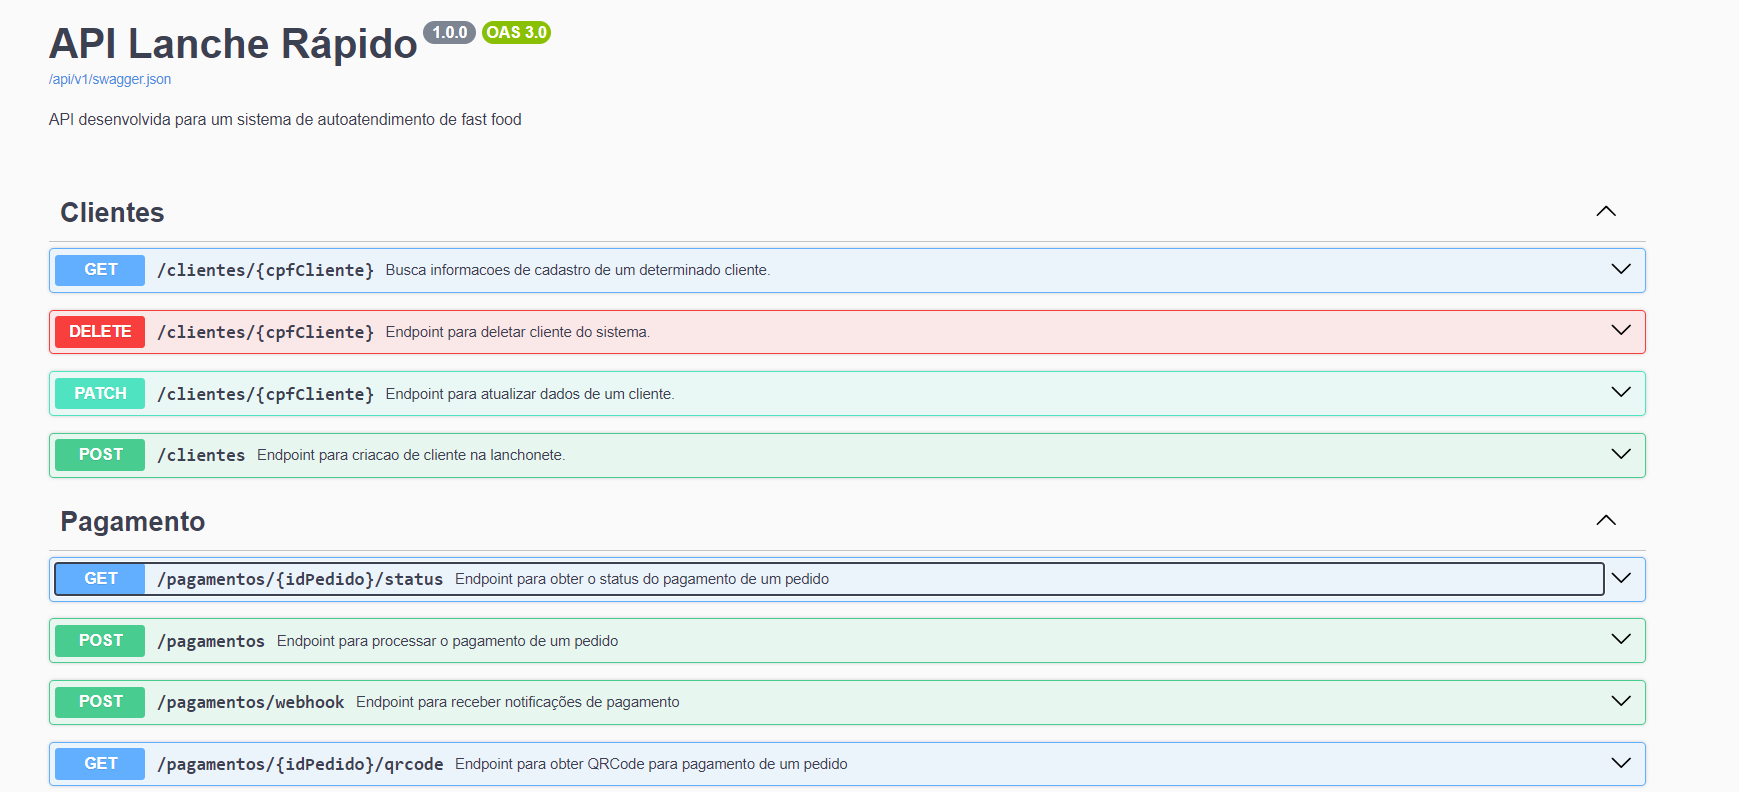
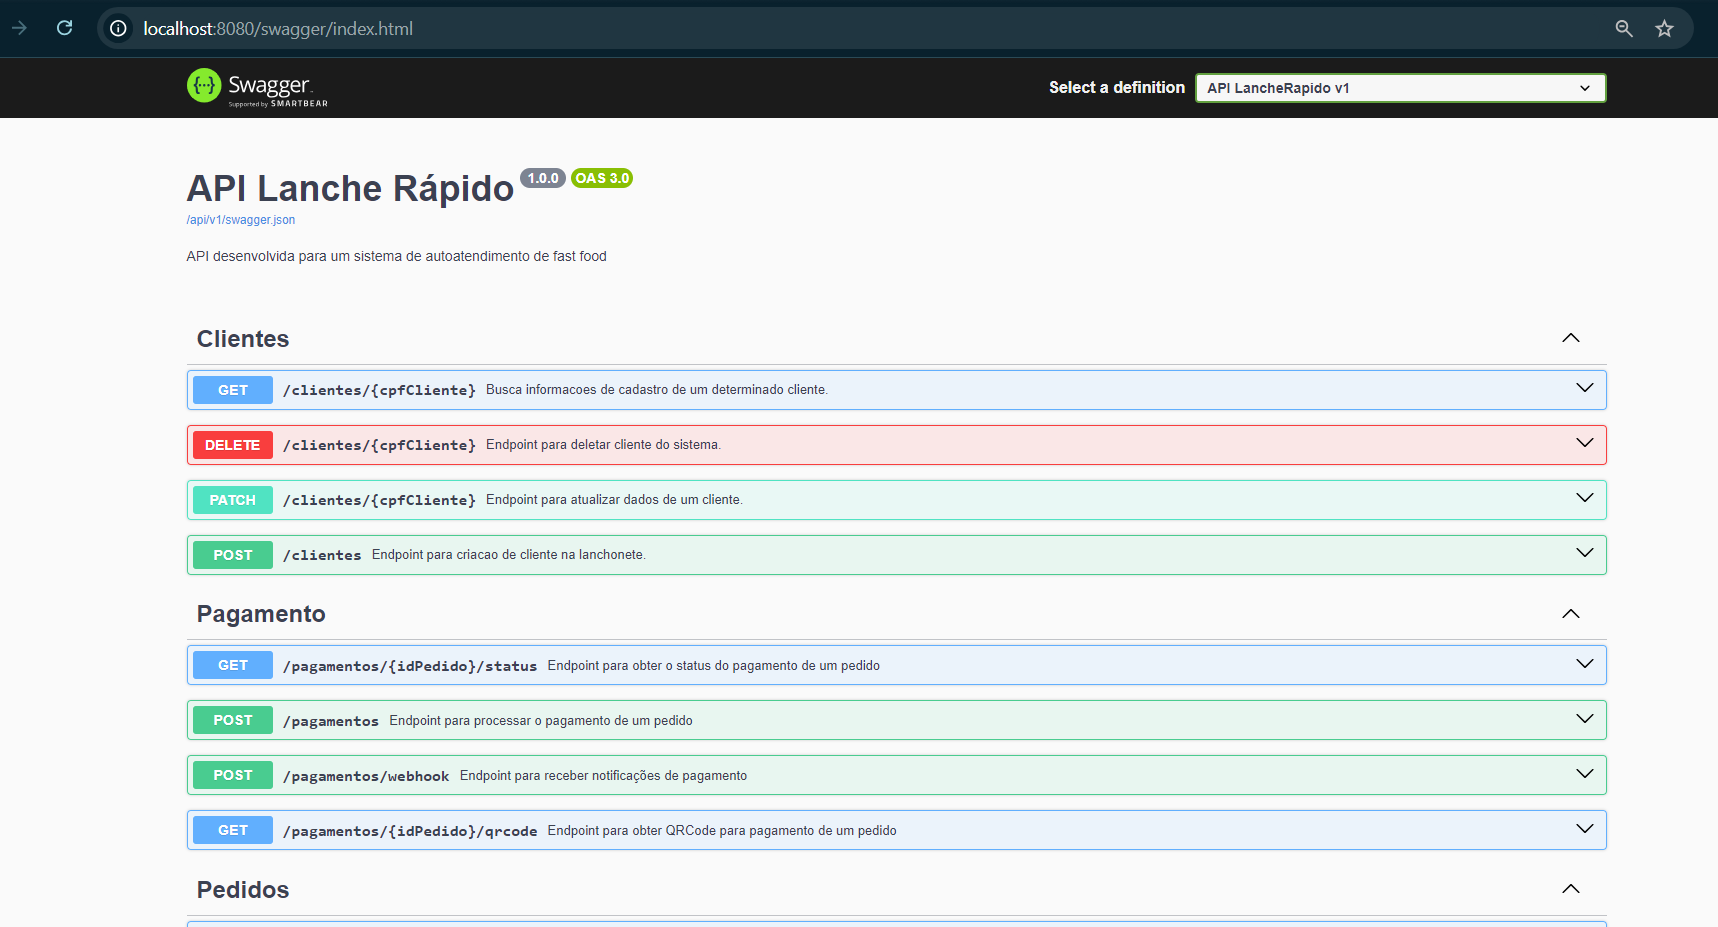
readme

diff --git a/README.md b/README.md
@@ -103,8 +103,17 @@ Base de Dados: LancheRapidoBD
 </br>
 <b>Como acessar a API</b>:
 </br>
+
+
+
+Abra outro terminal e execute o comando
+
+```
+kubectl port-forward svc/app 8080:80
+
+```
  
-<b>API</b>: http://localhost:5000/swagger/index.html
+<b>API</b>: http://localhost:8080/swagger/index.html
 </br>
 
 ![Swagger](assets/imagem1.png)
